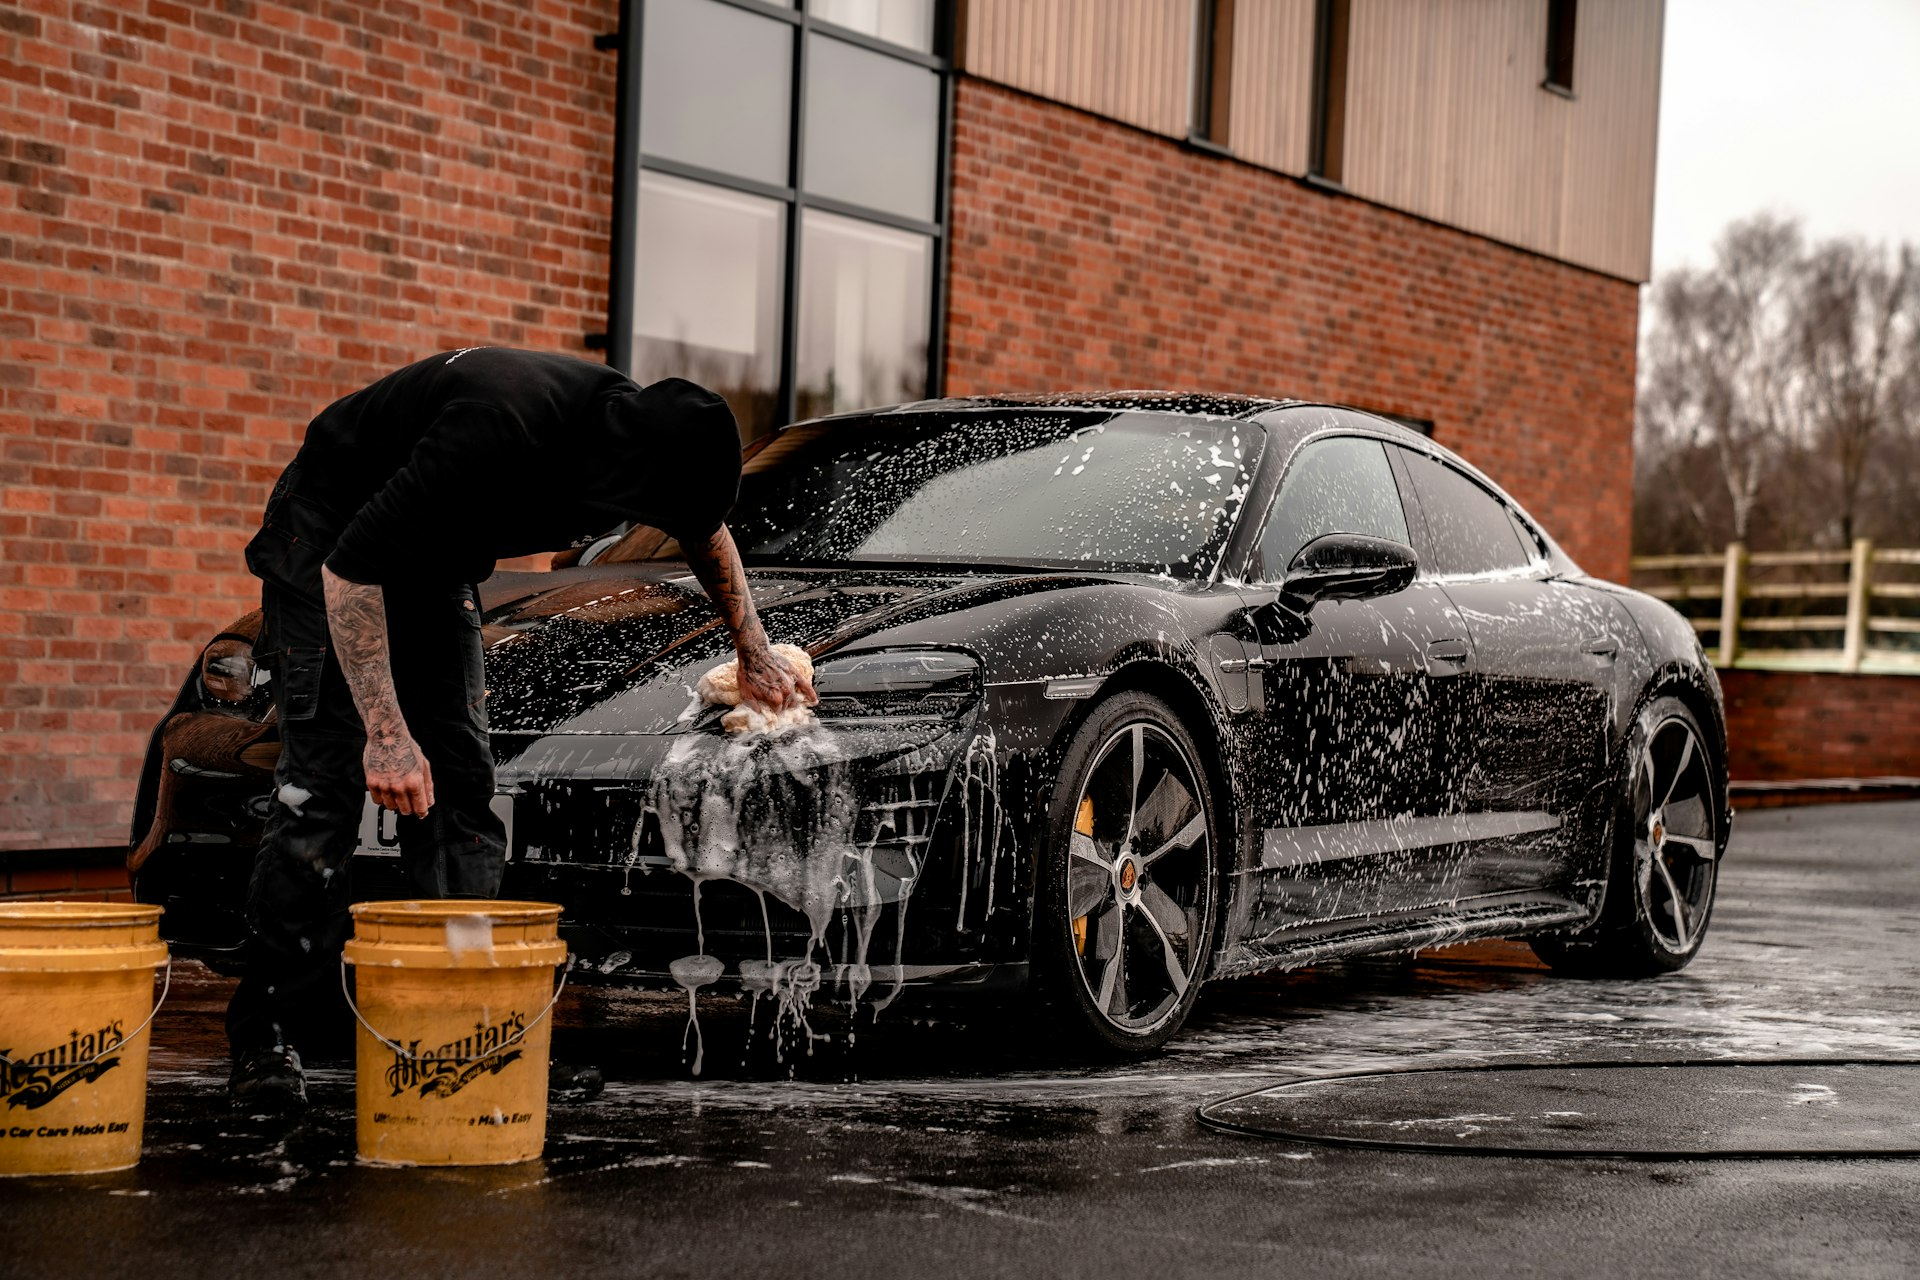
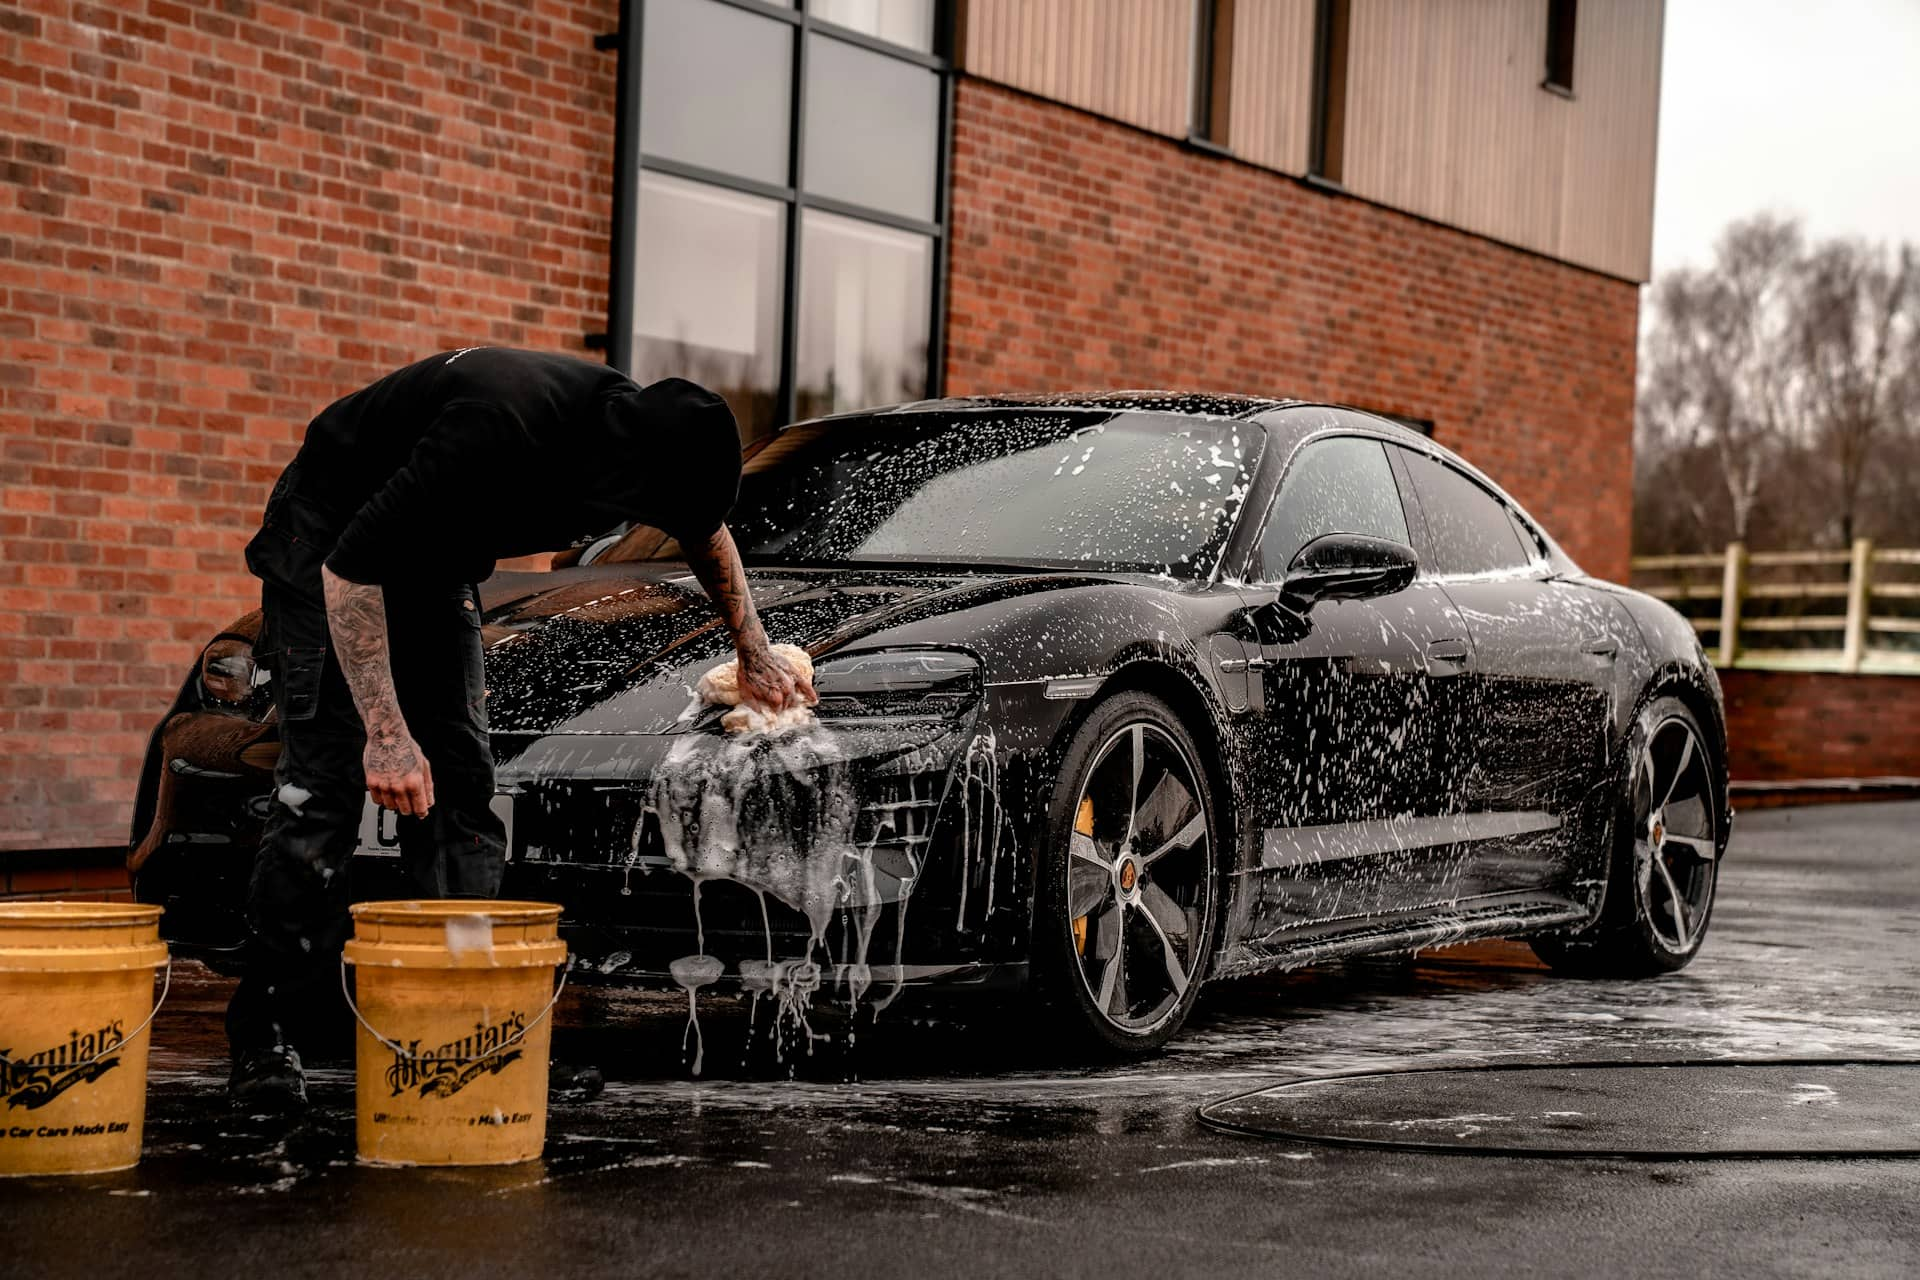
.......

Changed region(s): [[0.4062, 0.4688, 0.4375, 0.5]]

diff --git a/app/blog/[slug]/page.tsx b/app/blog/[slug]/page.tsx
@@ -59,6 +59,7 @@ export default async function BlogDetailPage({ params }: Props) {
           src={getBannerImage("/blog/[slug]")}
           alt=""
           fill
+          unoptimized
           priority
           sizes="100vw"
           className="object-cover object-center"
@@ -105,6 +106,7 @@ export default async function BlogDetailPage({ params }: Props) {
                   src={post.coverImage}
                   alt={post.title}
                   fill
+                  unoptimized
                   className="object-cover"
                   sizes="100vw"
                 />
@@ -125,6 +127,7 @@ export default async function BlogDetailPage({ params }: Props) {
                     src={post.coverImage}
                     alt={post.title}
                     fill
+                    unoptimized
                     className="object-cover"
                     sizes="33vw"
                   />

diff --git a/app/hizmetler/[slug]/page.tsx b/app/hizmetler/[slug]/page.tsx
@@ -51,6 +51,7 @@ export default async function ServiceDetailPage({ params }: Props) {
           src={getBannerImage("/hizmetler/[slug]")}
           alt=""
           fill
+          unoptimized
           priority
           sizes="100vw"
           className="object-cover object-center"
@@ -120,6 +121,7 @@ export default async function ServiceDetailPage({ params }: Props) {
                     src={service.coverImage}
                     alt={service.title}
                     fill
+                    unoptimized
                     className="object-cover"
                     sizes="(max-width: 1024px) 100vw, 40vw"
                   />
@@ -174,6 +176,7 @@ export default async function ServiceDetailPage({ params }: Props) {
                           src={item.coverImage}
                           alt={item.title}
                           fill
+                          unoptimized
                           className="object-cover transition duration-500 group-hover:scale-105"
                           sizes="(max-width: 768px) 100vw, 33vw"
                         />

diff --git a/lib/posts.ts b/lib/posts.ts
@@ -19,7 +19,7 @@ type PostRecord = RecordModel & {
 
 function mapPost(pb: PocketBase, record: PostRecord): Post {
   const coverImage = record.cover_image
-    ? pb.files.getURL(record, record.cover_image)
+    ? pb.files.getURL(record, record.cover_image, { thumb: "1000x0" })
     : null;
 
   return {

diff --git a/lib/services.ts b/lib/services.ts
@@ -54,7 +54,7 @@ function parseDetails(value: ServiceRecord["details"]): string[] {
 
 function mapService(pb: PocketBase, record: ServiceRecord): Service {
   const coverImage = record.cover_image
-    ? pb.files.getURL(record, record.cover_image)
+    ? pb.files.getURL(record, record.cover_image, { thumb: "1000x0" })
     : null;
 
   return {

diff --git a/components/home/Hero.tsx b/components/home/Hero.tsx
@@ -60,6 +60,7 @@ export default function Hero() {
               src={slide.image}
               alt={`${slide.title} ${slide.highlight}`}
               fill
+              unoptimized
               priority={index === 0}
               sizes="100vw"
               className="object-cover object-center"

diff --git a/components/services/ServicesGallery.tsx b/components/services/ServicesGallery.tsx
@@ -87,6 +87,7 @@ export default function ServicesGallery() {
                   src={service.coverImage}
                   alt={service.title}
                   fill
+                  unoptimized
                   className="object-cover transition duration-500 group-hover:scale-105"
                   sizes="(max-width: 768px) 100vw, 33vw"
                 />

diff --git a/components/ui/BlogCard.tsx b/components/ui/BlogCard.tsx
@@ -33,6 +33,7 @@ export default function BlogCard({
             src={coverImage}
             alt={title}
             fill
+            unoptimized
             className="object-cover transition duration-500 group-hover:scale-105"
             sizes="(max-width: 768px) 100vw, 33vw"
           />

diff --git a/components/ui/PageHeader.tsx b/components/ui/PageHeader.tsx
@@ -24,6 +24,7 @@ export default function PageHeader({
         src={background}
         alt=""
         fill
+        unoptimized
         priority
         sizes="100vw"
         className="object-cover object-center"

diff --git a/components/ui/ServiceCard.tsx b/components/ui/ServiceCard.tsx
@@ -31,6 +31,7 @@ export default function ServiceCard({
             src={coverImage}
             alt={title}
             fill
+            unoptimized
             sizes="(max-width: 640px) 100vw, (max-width: 1024px) 50vw, 25vw"
             className="object-cover object-center transition duration-700 ease-out group-hover:scale-110"
           />